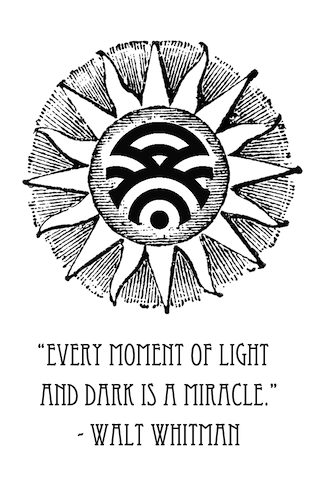
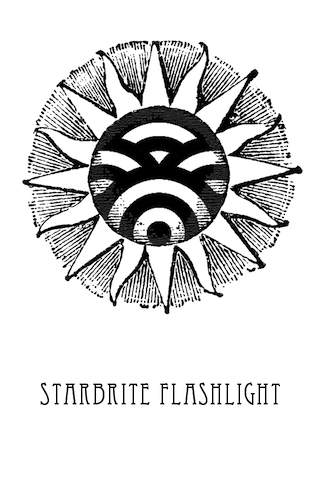
Rabbit follows star trail. Animations. Updated splash graphics.

diff --git a/Flashlight/ViewController.m b/Flashlight/ViewController.m
@@ -33,6 +33,7 @@ CGFloat degreesToRadians(CGFloat degrees);
     IBOutlet UIButton *m_torchButton;
     NSInteger m_lastStarFocusedAt;
     CGFloat _dimmerHandleOriginalY;
+    BOOL animatingStar;
 }
 - (void)setupTorch;
 
@@ -329,6 +330,23 @@ CGFloat degreesToRadians(CGFloat degrees);
     
     [self adaptToScreenSize];
     [self setDimmerFromTouchX:320];
+    
+    self.splash.hidden = NO;
+    self.starWorldButton.alpha = 0.15;
+    CGFloat scale = 0.9;
+    self.starWorldButton.transform = CGAffineTransformMakeScale(scale, scale);
+
+    [UIView beginAnimations:nil context:nil];
+    [UIView setAnimationRepeatAutoreverses:YES];
+    [UIView setAnimationRepeatCount:INT_MAX];
+    [UIView setAnimationDuration:1.0];
+    
+    scale = 1.15;
+    self.starWorldButton.transform = CGAffineTransformMakeScale(scale, scale);
+    self.starWorldButton.alpha = 1.0;
+
+    [UIView commitAnimations];
+
 }
 
 - (void)viewDidUnload
@@ -629,6 +647,9 @@ CGFloat degreesToRadians(CGFloat degrees)
 }
 */
 
+NSInteger iLastPassedStarU = 0.0;
+CGFloat previousTouchX;
+
 - (void)setDimmerFromTouchX:(CGFloat)touchX
 {
 //    NSLog(@"touchX: %.0f", touchX);
@@ -651,8 +672,6 @@ CGFloat degreesToRadians(CGFloat degrees)
     {
         handleX = touchX - barPadding;
     }
-    
-//    handleX += 10;
     
     // Set alpha.
     
@@ -681,7 +700,7 @@ CGFloat degreesToRadians(CGFloat degrees)
     CGFloat offsetHandleY = -((parabolaU2 * maxOffsetHandleY));
     
     p.y = _dimmerHandleOriginalY - offsetHandleY - maxOffsetHandleY;
-    p.x = handleX + barPadding;
+    p.x = handleX + barPadding + 8;
     self.dimmerHandle.center = p;
 
     // 0: -45 degrees
@@ -691,7 +710,7 @@ CGFloat degreesToRadians(CGFloat degrees)
     self.dimmerHandle.transform = CGAffineTransformMakeRotation(degreesToRadians(rabbitRotationDegrees));    
     
     
-    if (handleX < 25)
+    if (handleU < 0.20)
     {
         // StarWorld button mode.
         
@@ -703,15 +722,159 @@ CGFloat degreesToRadians(CGFloat degrees)
         self.lightContainer.hidden = NO;
         [self setStarWorldButtonHidden:YES];
     }
+    
+    
+    // Must be heading left.
+    BOOL headingLeft = ((previousTouchX - touchX) > 0.0);
+    
+    if (!animatingStar)
+    {
+        NSInteger iHandleU = handleU * 1000.0;
+
+        if (abs(iLastPassedStarU - iHandleU) >= 100.0)
+        {
+//            NSLog(@"%i", iHandleU);
+            iLastPassedStarU = iHandleU;
+            
+            NSMutableArray *passedStars = [NSMutableArray arrayWithCapacity:4];
+            
+            // htf do i know if a star has been passed?
+            // 
+            
+            UIImageView *star;
+
+            if (iHandleU <= 850)
+            {
+                star = (UIImageView *)[self.view viewWithTag:8001];
+                
+                if (headingLeft && !star.highlighted)
+                {
+                    [passedStars addObject:star];
+                }
+            }
+            else if (!headingLeft)
+            {
+                star = (UIImageView *)[self.view viewWithTag:8001];
+                if (star.highlighted)
+                {
+                    [passedStars addObject:star];
+                }
+            }
+
+            if (iHandleU <= 650)
+            {
+                star = (UIImageView *)[self.view viewWithTag:8002];
+                
+                if (headingLeft && !star.highlighted)
+                {
+                    [passedStars addObject:star];
+                }
+            }
+            else if (!headingLeft)
+            {
+                star = (UIImageView *)[self.view viewWithTag:8002];
+                if (star.highlighted)
+                {
+                    [passedStars addObject:star];
+                }
+            }
+
+            if (iHandleU <= 450)
+            {
+                star = (UIImageView *)[self.view viewWithTag:8003];
+                
+                if (headingLeft && !star.highlighted)
+                {
+                    [passedStars addObject:star];
+                }
+            }
+            else if (!headingLeft)
+            {
+                star = (UIImageView *)[self.view viewWithTag:8003];
+                if (star.highlighted)
+                {
+                    [passedStars addObject:star];
+                }
+            }
+            
+            if (iHandleU <= 260)
+            {
+                star = (UIImageView *)[self.view viewWithTag:8004];
+                
+                if (headingLeft && !star.highlighted)
+                {
+                    [passedStars addObject:star];
+                }
+            }
+            else if (!headingLeft)
+            {
+                star = (UIImageView *)[self.view viewWithTag:8004];
+                if (star.highlighted)
+                {
+                    [passedStars addObject:star];
+                }
+            }
+
+            if ([passedStars count] > 0)
+            {
+                animatingStar = YES;
+                
+                [UIView animateWithDuration:0.33
+                                      delay:0.0
+                                    options:UIViewAnimationOptionCurveEaseIn
+                                 animations:^{
+                                     
+                                     for (UIImageView *star in passedStars)
+                                     {
+                                         if (headingLeft)
+                                         {
+                                             star.alpha = 0.0;
+                                             star.highlighted = YES;
+
+                                             CGFloat scale = 15.0;
+                                             
+                                             CGAffineTransform xfmScale = CGAffineTransformScale(star.transform, scale, scale);
+                                             CGAffineTransform xfmRotate = CGAffineTransformRotate(star.transform, -M_PI_2);
+                                             CGAffineTransform xfmTranslate = CGAffineTransformTranslate(star.transform, 0, -120);
+                                             
+                                             star.transform = CGAffineTransformConcat(
+                                                                CGAffineTransformConcat(xfmRotate, xfmScale),
+                                                                xfmTranslate);
+                                             
+                                         }
+                                     }
+                                     
+                                 } completion:^(BOOL finished) {
+                                     
+                                     if (!headingLeft)
+                                     {
+                                         for (UIImageView *star in passedStars)
+                                         {
+                                             star.transform = CGAffineTransformIdentity;
+                                             star.alpha = 1.0;
+                                             star.highlighted = NO;
+                                         }
+                                     }
+                                     
+                                     animatingStar = NO;
+                                     
+                                 }];
+            }
+        }
+    }
+    
+    previousTouchX = touchX;
 }
 
 - (void)setStarWorldButtonHidden:(BOOL)hidden
 {
+    self.starWorldButton.hidden = hidden;
+    
     CGFloat alpha = (hidden ? 0.0 : 1.0);
 
     [UIView beginAnimations:nil context:nil];
     [UIView setAnimationDuration:0.25];
-    self.starWorldButton.alpha = alpha;
+//    self.starWorldButton.alpha = alpha;
     self.tapTapWhiteButton.alpha = (1.0 - alpha);
     [UIView commitAnimations];
 
@@ -888,7 +1051,7 @@ CGPoint m_firstTouch;
 
 - (void)repositionSunContainers
 {
-    CGFloat offset = 21.0;
+    CGFloat offset = 0.0;
     
     CGRect f = self.sunContainerDark.frame;
     f.origin.y += offset;
